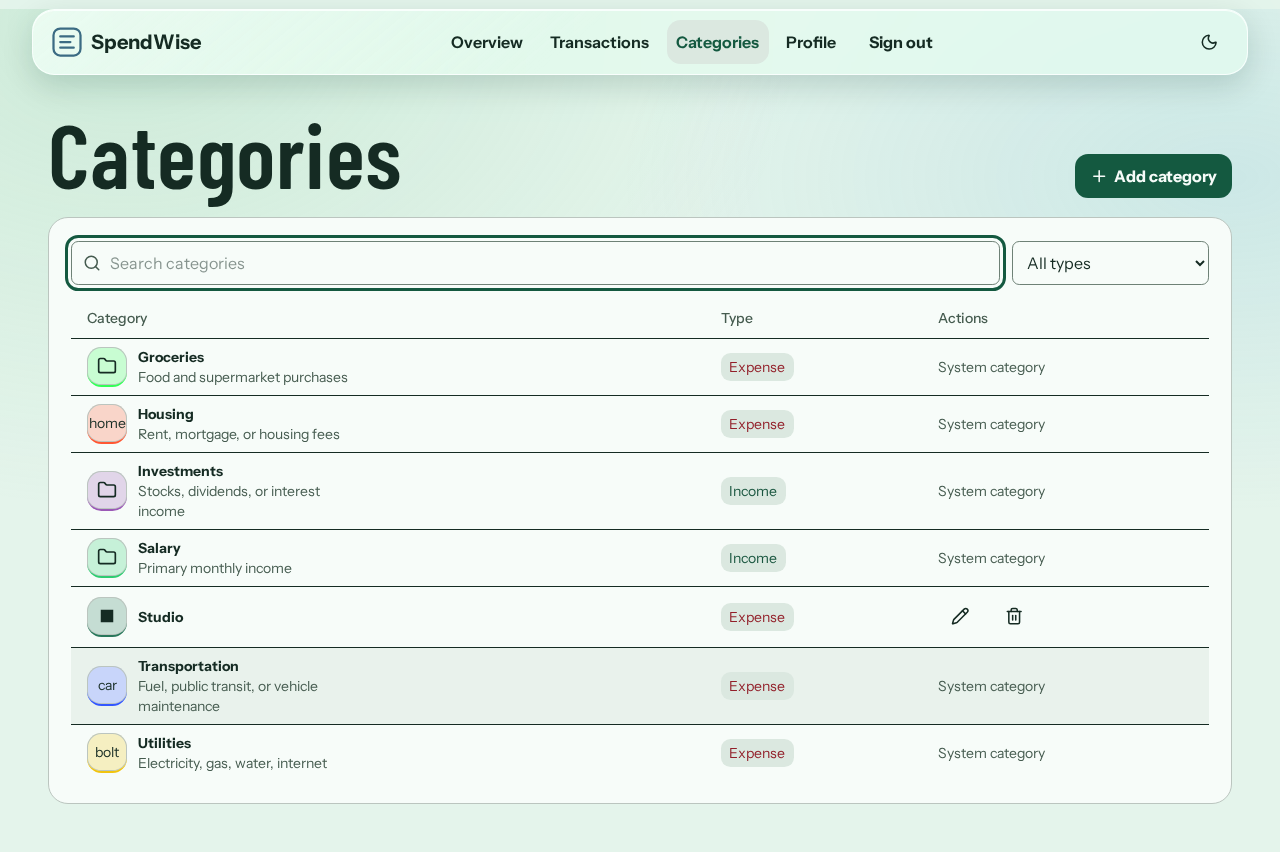
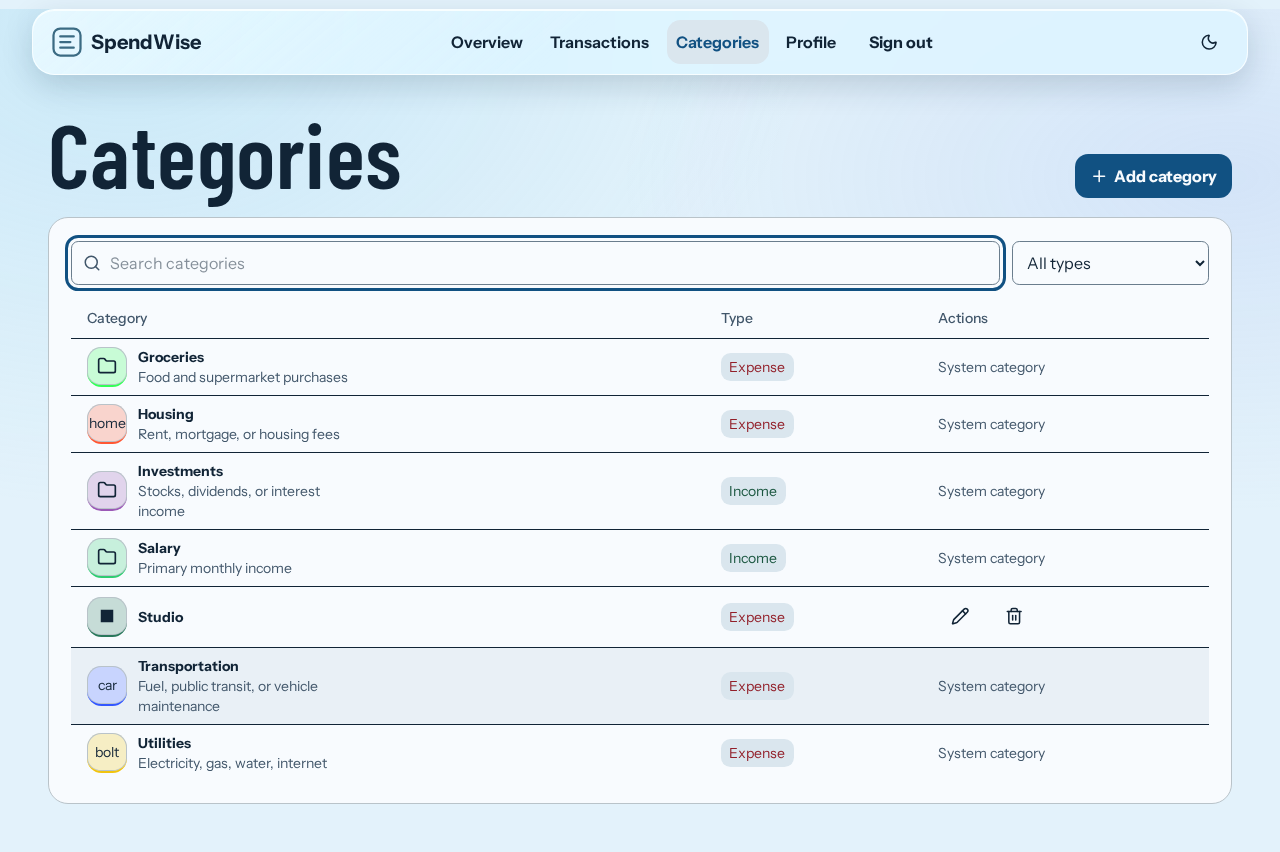
style: apply the icy blue SpendWise palette
- Retint the glass surfaces and auth artwork while preserving status colors and accessibility.
- Match the first-paint shell to the new palette and recapture the documentation screenshots.
- Document provider credentials, sender approval, and link URLs for real verification mail.

diff --git a/frontend/src/styles.css b/frontend/src/styles.css
@@ -22,17 +22,17 @@
 :root {
   color-scheme: light;
   font-family: "Instrument Sans Variable", sans-serif;
-  --canvas: oklch(0.952 0.020 160);
-  --surface: oklch(0.987 0.008 158);
-  --ink: oklch(0.268 0.033 167);
-  --muted: oklch(0.450 0.033 161);
+  --canvas: oklch(0.952 0.020 236);
+  --surface: oklch(0.987 0.005 232);
+  --ink: oklch(0.253 0.043 250);
+  --muted: oklch(0.445 0.042 247);
   --income: oklch(0.405 0.074 164);
   --expense: oklch(0.435 0.150 22);
   --warning: oklch(0.452 0.086 75);
-  --focus: oklch(0.414 0.079 164);
-  --glass-fill: oklch(0.970 0.024 161 / 0.72);
-  --glass-edge: oklch(0.996 0.005 160 / 0.91);
-  --glass-shadow: oklch(0.264 0.069 173 / 0.17);
+  --focus: oklch(0.423 0.101 247);
+  --glass-fill: oklch(0.961 0.026 231 / 0.72);
+  --glass-edge: oklch(0.995 0.005 232 / 0.91);
+  --glass-shadow: oklch(0.264 0.056 247 / 0.17);
   --line: color-mix(in oklch, var(--ink) 24%, var(--surface));
   --control-border: color-mix(in oklch, var(--muted) 75%, var(--surface));
   --subtle: color-mix(in oklch, var(--focus) 12%, var(--surface));
@@ -41,21 +41,21 @@
 }
 :root.dark {
   color-scheme: dark;
-  --canvas: oklch(0.230 0.031 169);
-  --surface: oklch(0.284 0.036 170);
-  --ink: oklch(0.949 0.018 167);
-  --muted: oklch(0.761 0.031 165);
+  --canvas: oklch(0.225 0.035 250);
+  --surface: oklch(0.277 0.046 249);
+  --ink: oklch(0.948 0.020 232);
+  --muted: oklch(0.759 0.035 239);
   --income: oklch(0.808 0.107 163);
   --expense: oklch(0.775 0.122 24);
   --warning: oklch(0.842 0.105 84);
-  --focus: oklch(0.814 0.105 164);
-  --glass-fill: oklch(0.293 0.049 168 / 0.75);
-  --glass-edge: oklch(0.73 0.071 165 / 0.44);
-  --glass-shadow: oklch(0.15 0.035 170 / 0.5);
+  --focus: oklch(0.817 0.091 229);
+  --glass-fill: oklch(0.292 0.055 246 / 0.75);
+  --glass-edge: oklch(0.73 0.073 226 / 0.44);
+  --glass-shadow: oklch(0.15 0.043 253 / 0.5);
 }
 body { min-width: 300px; margin: 0; background:
-  radial-gradient(ellipse at 10% 2%, oklch(0.81 0.09 155 / .27), transparent 42rem),
-  radial-gradient(ellipse at 96% 20%, oklch(0.74 0.085 225 / .2), transparent 38rem),
+  radial-gradient(ellipse at 10% 2%, oklch(0.82 0.085 226 / .27), transparent 42rem),
+  radial-gradient(ellipse at 96% 20%, oklch(0.76 0.09 269 / .2), transparent 38rem),
   var(--canvas);
   min-height: 100vh;
 }
@@ -127,10 +127,10 @@ a { text-underline-offset: .2em; }
   overflow: hidden;
   border-radius: 2.4rem;
   background:
-    radial-gradient(ellipse at 28% 20%, #eafeb0 0%, transparent 51%),
-    radial-gradient(ellipse at 92% 72%, #438fd0, transparent 62%),
-    radial-gradient(ellipse at 78% 12%, #dc8689, transparent 44%),
-    linear-gradient(135deg, #136144, #2d8c6d 58%, #153e50);
+    radial-gradient(ellipse at 28% 20%, #dbf7ff 0%, transparent 51%),
+    radial-gradient(ellipse at 92% 72%, #458cd7, transparent 62%),
+    radial-gradient(ellipse at 78% 12%, #a9aaff, transparent 44%),
+    linear-gradient(135deg, #1a547b, #369bc4 58%, #243965);
 }
 .auth-art::after {
   content: "";
@@ -140,7 +140,7 @@ a { text-underline-offset: .2em; }
   background: repeating-linear-gradient(115deg, transparent 0 68px, #fff2 69px, transparent 70px 100px);
   mask-image: linear-gradient(130deg, #000, transparent 78%);
 }
-.auth-orbit { position: absolute; inset: 18% 8%; border: 1px solid #edfff78f; border-radius: 50%; transform: rotate(-25deg); }
+.auth-orbit { position: absolute; inset: 18% 8%; border: 1px solid #eefaff9d; border-radius: 50%; transform: rotate(-25deg); }
 .auth-prism {
   position: absolute;
   width: clamp(7rem, 20vw, 14rem);
@@ -148,15 +148,15 @@ a { text-underline-offset: .2em; }
   display: grid;
   place-items: center;
   border-radius: 30%;
-  border: 1px solid #effffed1;
-  background: linear-gradient(140deg, #fff8, #fff1 46%, #c6fff34d 80%);
+  border: 1px solid #effaffd1;
+  background: linear-gradient(140deg, #fff8, #fff1 46%, #c2ebff65 80%);
   backdrop-filter: blur(12px) saturate(150%);
-  box-shadow: inset 0 1px 2px #fff, inset -2px -2px 6px #dafffd86, 0 24px 42px #153c5570;
+  box-shadow: inset 0 1px 2px #fff, inset -2px -2px 6px #ddf7ff86, 0 24px 42px #153c5570;
 }
 .auth-prism-back { left: 32%; top: 18%; rotate: -24deg; }
 .auth-prism-front { left: 47%; top: 26%; animation: glass-float 7s ease-in-out infinite alternate; rotate: 12deg; }
-.auth-prism-front img { width: 43%; height: auto; filter: drop-shadow(0 6px 10px #123a3659); }
-.auth-spark { position: absolute; left: 22%; top: 66%; width: .65rem; aspect-ratio: 1; border-radius: 50%; background: #f4ffdf; box-shadow: 0 0 20px 6px #eaffc18c; }
+.auth-prism-front img { width: 43%; height: auto; filter: drop-shadow(0 6px 10px #15386459); }
+.auth-spark { position: absolute; left: 22%; top: 66%; width: .65rem; aspect-ratio: 1; border-radius: 50%; background: #effbff; box-shadow: 0 0 20px 6px #d8f7ff9c; }
 @keyframes glass-float { from { transform: translate3d(0, 0, 0); } to { transform: translate3d(-.5rem, -.9rem, 0) rotate(-5deg); } }
 .password-control { position: relative; display: grid; align-items: center; }
 .password-control input { padding-inline-end: 3.2rem; }

diff --git a/frontend/src/features/categories/CategoriesPage.tsx b/frontend/src/features/categories/CategoriesPage.tsx
@@ -82,7 +82,7 @@ function Editor({ category, close }: { category?: Category; close: () => void })
       <div className="stack">
         <Field id="category-color" label="Category color" error={errors.color?.message}>
           <div className="inline-actions">
-            <input id="category-color" type="color" value={color || '#29785b'}
+            <input id="category-color" type="color" value={color || '#286699'}
               onInput={event => setValue('color', event.currentTarget.value, { shouldDirty: true })} />
             {color && <Button type="button" variant="ghost" onClick={() => setValue('color', '', { shouldDirty: true })}>Clear color</Button>}
           </div>

diff --git a/frontend/index.html b/frontend/index.html
@@ -15,8 +15,8 @@
       })()
     </script>
     <style>
-      html { color-scheme: light; background: #eaf4ee; color: #1b3029 }
-      html.dark { color-scheme: dark; background: #102721; color: #eafbf2 }
+      html { color-scheme: light; background: #e9f2fb; color: #172338 }
+      html.dark { color-scheme: dark; background: #101c2d; color: #e6f4fc }
       body { margin: 0 }
       .boot-screen { min-height: 100vh; display: grid; place-items: center; font: 600 18px system-ui, sans-serif }
       .boot-screen span { display: grid; justify-items: center; gap: 12px }

diff --git a/frontend/e2e/spendwise.spec.ts b/frontend/e2e/spendwise.spec.ts
@@ -16,7 +16,7 @@ test('paints the saved theme while the JavaScript bundle is still loading', asyn
     await page.goto('/login', { waitUntil: 'commit' })
     await expect(page.getByRole('status')).toHaveText('Loading SpendWise…')
     await expect(page.locator('html')).toHaveClass('dark')
-    await expect(page.locator('html')).toHaveCSS('background-color', 'rgb(16, 39, 33)')
+    await expect(page.locator('html')).toHaveCSS('background-color', 'rgb(16, 28, 45)')
   } finally {
     allowScripts()
   }

diff --git a/README.md b/README.md
@@ -28,9 +28,25 @@ Open [SpendWise](http://localhost:3000) and sign in with the demo account printe
 
 The Docker development stack sends mail to [Mailpit](http://localhost:8025). Mailpit captures mail locally, including mail addressed to a real email address. Sign up or select **Send verification email**, open the message in Mailpit, and follow the link back to SpendWise.
 
-For delivery to a real inbox, set the Docker development overrides in the ignored local `.env`. Use `SPENDWISE_DEV_SMTP_HOST`, `SPENDWISE_DEV_SMTP_PORT`, `SPENDWISE_DEV_SMTP_FROM`, `SPENDWISE_DEV_SMTP_USERNAME`, `SPENDWISE_DEV_SMTP_PASSWORD`, and `SPENDWISE_DEV_SMTP_STARTTLS=true`. Choose a sender approved by your provider. Set `SPENDWISE_DEV_FRONTEND_URL` to the URL recipients can reach and rerun `make up`. A successful explicit send confirms that the relay accepted the message. Inbox delivery depends on the provider and recipient.
+To send to a real inbox, get SMTP credentials and approve a sender address or domain with your email provider. Some providers restrict sandbox accounts to approved recipients. For example, Amazon SES requires production access to send to arbitrary recipients. [Amazon SES SMTP credentials](https://docs.aws.amazon.com/ses/latest/dg/smtp-credentials.html) · [SES sandbox limits](https://docs.aws.amazon.com/ses/latest/dg/request-production-access.html)
+
+Add the provider settings directly to your ignored local `.env`. Replace the example values with your own.
+
+```dotenv
+SPENDWISE_DEV_SMTP_HOST=smtp.example.com
+SPENDWISE_DEV_SMTP_PORT=587
+SPENDWISE_DEV_SMTP_FROM=notifications@example.com
+SPENDWISE_DEV_SMTP_USERNAME=your-smtp-username
+SPENDWISE_DEV_SMTP_PASSWORD=your-smtp-password
+SPENDWISE_DEV_SMTP_STARTTLS=true
+SPENDWISE_DEV_FRONTEND_URL=http://localhost:3000
+```
+
+Use your provider's STARTTLS endpoint, typically port 587. A local URL works when you open the email link on the machine running SpendWise. For someone opening it elsewhere, set `SPENDWISE_DEV_FRONTEND_URL` to an HTTPS address they can reach. Run `make up` to apply the settings and choose **Send verification email**. The app reports relay acceptance or failure. Use the provider's delivery log to check what happens after acceptance.
 
 ## Development checks
+
+Install uv and Node.js 22.23.5 to run the checks on your machine.
 
 ```sh
 make install
@@ -41,7 +57,7 @@ make frontend-check
 
 The backend suite starts disposable PostgreSQL and Redis and enforces 85% line coverage. Frontend checks cover lint, type checking, Vitest, production build, contrast, and bundle budgets. With Playwright Chromium and its dependencies available, `make frontend-e2e` exercises the browser flow against disposable services.
 
-To run the browser tests against the running Docker app, use `SPENDWISE_E2E_BASE_URL=http://localhost:3000 npm --prefix frontend exec -- playwright test`.
+To run the browser tests against the running Docker app, use `SPENDWISE_E2E_BASE_URL=http://localhost:3000 npm --prefix frontend exec -- playwright test`. That run creates a test account and sample data in the development database.
 
 Regenerate API types with `make openapi` and `npm --prefix frontend run api:generate`.
 
@@ -58,5 +74,5 @@ Regenerate API types with `make openapi` and `npm --prefix frontend run api:gene
 ## Operations
 
 - `make up` starts the Docker app with existing images. `make down` removes the containers and keeps the database volume.
-- Production uses private PostgreSQL and Redis, a configured SMTP relay, and HTTPS ingress. Supply the required settings in `docker-compose.prod.yml`, run `make prod-migrate` once with the migration role, then run `make prod-up`.
+- Production uses private PostgreSQL and Redis and HTTPS ingress. Set the environment variables listed in `docker-compose.prod.yml` through your deployment configuration, with credentials in its secret store. Use the `SPENDWISE_SMTP_*` variables for real mail, set `SPENDWISE_FRONTEND_URL` to the public HTTPS URL, and allow that exact origin in `SPENDWISE_CORS_ORIGINS`. Run `make prod-migrate` once with the migration role, then run `make prod-up`.
 - See the [API contract](docs/api-contract.md) for authentication and proxy configuration and the [PostgreSQL restore runbook](docs/RESTORE.md) for backup and recovery.

diff --git a/docs/CHANGELOG_AI.md b/docs/CHANGELOG_AI.md
@@ -1,6 +1,28 @@
 # AI change log
 Every change made by an AI agent: file, what, why. Newest session first.
 
+## 2026-11-24 — `codex/20261124-glass-and-verification` · Icy-blue finish
+
+Apply the requested blue glass palette and clarify the settings needed for external SMTP delivery.
+
+| File | What changed | Why |
+|---|---|---|
+| `frontend/src/styles.css` | Switch light and dark surfaces, navigation accents, and glass artwork to blue and violet | Apply the requested palette while preserving semantic feedback colors |
+| `frontend/index.html` | Update the critical first-paint colors | Match the loaded theme while JavaScript starts |
+| `frontend/e2e/spendwise.spec.ts` | Assert the new dark first-paint color | Keep the startup flash regression current |
+| `frontend/src/features/categories/CategoriesPage.tsx` | Use a blue default swatch | Match the category editor to the app palette |
+| `README.md` | Add a copyable SMTP template, sender and sandbox requirements, and production origin setup | Explain how to send real email and open verification links |
+| `docs/screenshots/frontend/sign-in.png` | Recapture the sign-in artwork | Show the requested palette |
+| `docs/screenshots/frontend/categories.png` | Recapture the category table | Show the requested palette |
+| `docs/screenshots/frontend/dashboard-light.png` | Recapture the light dashboard | Keep the README preview current |
+| `docs/screenshots/frontend/dashboard-dark.png` | Recapture the dark dashboard | Keep the README preview current |
+| `docs/screenshots/frontend/transactions-mobile.png` | Recapture mobile transactions | Show the blue theme at phone width |
+| `docs/CHANGELOG_AI.md` | Record the follow-up changes | Track the session |
+
+The Docker runtime was checked without printing SMTP settings. It still uses Mailpit, with external host and credentials unset. [Amazon SES SMTP credentials](https://docs.aws.amazon.com/ses/latest/dg/smtp-credentials.html) · [Amazon SES sandbox requirements](https://docs.aws.amazon.com/ses/latest/dg/request-production-access.html)
+
+`make check` passed with 184 tests and 88.18% coverage after retrying a PyPI timeout. `make frontend-check` passed with 29 tests, and both Chromium tests passed against the rebuilt Docker frontend.
+
 ## 2026-11-24 — `codex/20261124-glass-and-verification`
 
 Refresh the SpendWise interface, make verification delivery observable, and run the development app in Docker.
